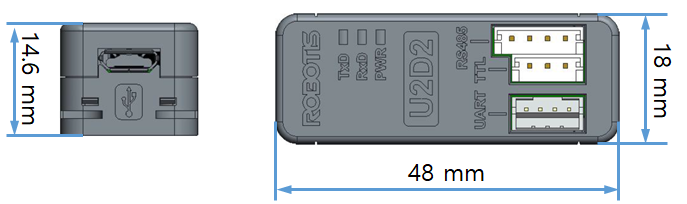
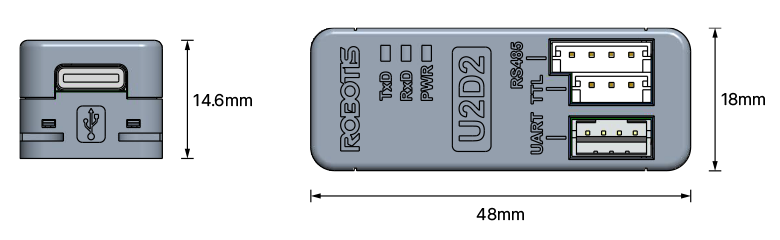
Update U2D2 C-type

diff --git a/docs/en/parts/interface/u2d2.md b/docs/en/parts/interface/u2d2.md
@@ -12,7 +12,7 @@ sidebar:
 
 # [Introduction](#introduction)
 
-![](/assets/images/parts/interface/u2d2_product.jpg)
+![](/assets/images/parts/interface/u2d2_product.png)
 
 > U2D2
 
@@ -31,13 +31,13 @@ U2D2 does not supply power to DYNAMIXEL, therefore, an external power supply sho
 Be careful as recommended voltage for each DYNAMIXEL could be vary by model.  
 Please refer to e-Manual for recommended supply voltage and power connection with various power supplies.
 
-![](/assets/images/parts/interface/u2d2_01.png)
+![](/assets/images/parts/interface/u2d2_01.jpg)
 
 ## PC to UART
 
 U2D2 is able to connect ROBOTIS controllers that support 4Pin UART communication such as OpenCM9.04, CM-150 and CM-200 to the PC with the enclosed USB cable.
 
-![](/assets/images/parts/interface/u2d2_02.png)
+![](/assets/images/parts/interface/u2d2_02.jpg)
 
 **NOTE** : In case of unstable communication with U2D2, check if there is a reference voltage difference in the communication.
 Please check PC and other devices are grounded properly. Failing to do so might cause damages on the U2D2.
@@ -58,7 +58,7 @@ Please check PC and other devices are grounded properly. Failing to do so might 
 
 # [Layout](#layout)
 
-![](/assets/images/parts/interface/u2d2_04.png)
+![](/assets/images/parts/interface/u2d2_04.jpg)
 
 |     Ports      |                            Description                             |
 | :------------: | :----------------------------------------------------------------: |
@@ -66,7 +66,10 @@ Please check PC and other devices are grounded properly. Failing to do so might 
 | 3Pin TTL Level |       Connect to DYNAMIXEL with 3Pin TTL Level Communication       |
 |  4Pin RS-485   |        Connect to DYNAMIXEL with 4Pin RS-485 Communication         |
 |   Status LED   | Display status of Power supply, TxD(Data write) and RxD(Data Read) |
-|  Micro-B USB   |                  Connect to the PC with USB cable                  |
+|  *Type-C USB   |                  Connect to the PC with USB cable                  |
+
+**참고**: 2025년 8월부터 U2D2 제품의 USB 포트 타입이 Micro-B 에서 Type-C 로 변경되었습니다.
+{: .notice}
 
 # [Baudrate](#baudrate)
 
